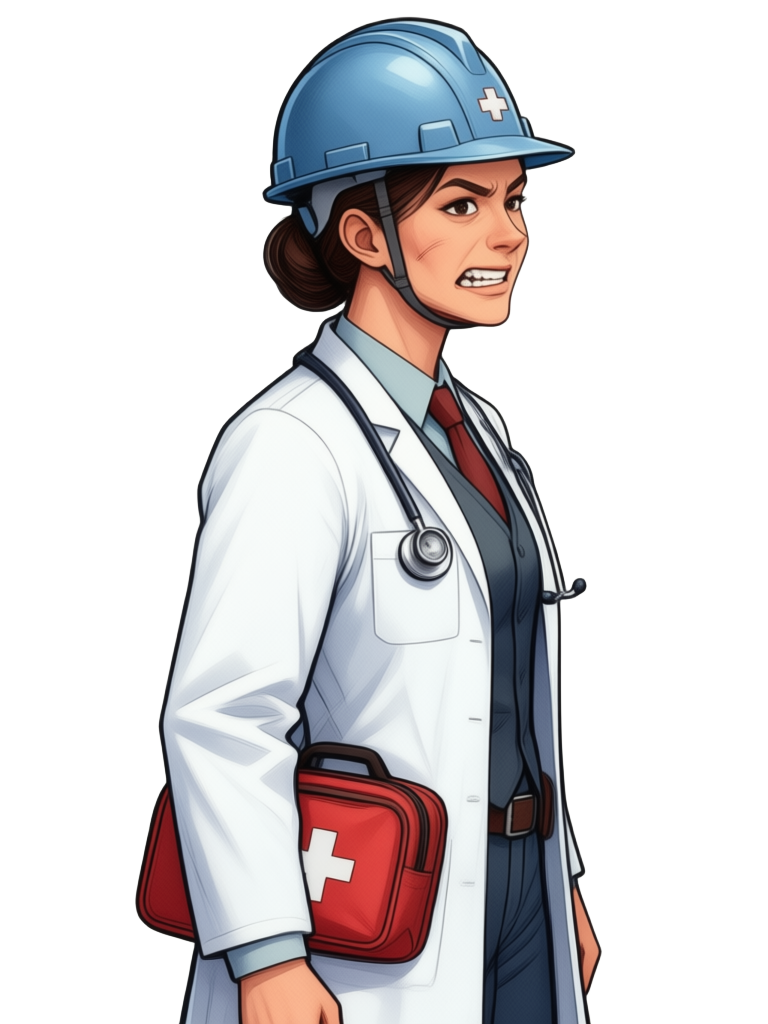
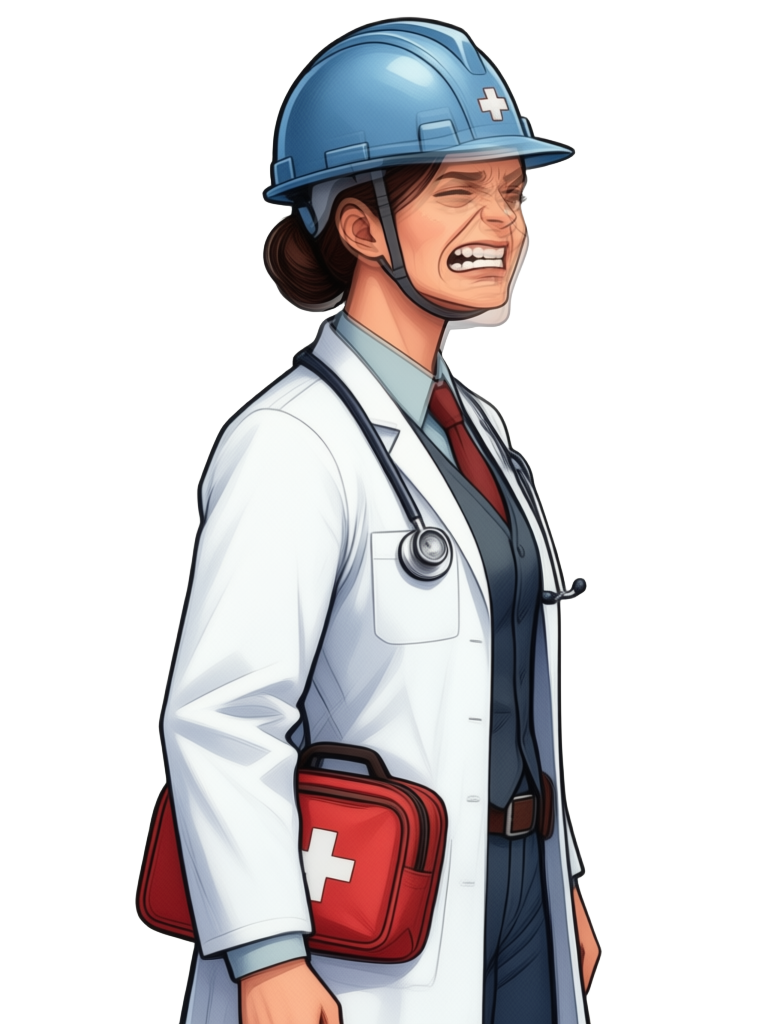
C2C 表情区分度：c02–c08 共 28 张脸部 inpaint 全量完成（NOBLANK 修 c07/c08 遮灰照抄 + 脸区变化量 QC），蒙太奇视觉验收 4 表情肉眼可辨、身份无漂移

Changed region(s): [[0.4062, 0.125, 0.6875, 0.4062]]

diff --git a/scripts/art/gen-c2c.py b/scripts/art/gen-c2c.py
@@ -16,7 +16,7 @@
 # 用法：
 #   python3 scripts/art/gen-c2c.py                  # 全量 c02–c08 ×4
 #   CHARS=c03 python3 scripts/art/gen-c2c.py        # 只跑指定角色
-#   SEED_SALT=1 换种子簇；DRY=1 只出图不覆盖 public/
+#   SEED_SALT=1 换种子簇；DRY=1 只出图不覆盖 public/；NOBLANK=1 条件图不遮灰（只改表情）
 # 断点：art-work/c2/express-c/<cid>_<expr>_fin.png 存在则跳过。
 
 import importlib.util
@@ -70,7 +70,16 @@ def face_mask(box, W, H):
     return np.array(m).astype(float) / 255.0
 
 
-def prompt_for(expr, cid):
+def prompt_for(expr, cid, noblank=False):
+    if noblank:
+        # NOBLANK：条件图保留原脸（不遮灰），让 Edit 模型看到脸只改表情。
+        # 遮灰模式下 c07/c08 模型看不到原脸，要么照抄原脸要么脸区画空（2026-11-02）。
+        return (
+            "把图中这个人的表情改成：%s。表情要夸张、清晰可辨，" % EXPRESSION[expr]
+            + "严格保持同一身份：脸型、肤色、五官比例、发型、帽子、衣服、道具、姿势、背景全部原样不变，只改脸部表情。"
+            + "脸必须和头、耳朵、脖子自然衔接，改动要平滑自然。"
+            + "厚涂赛璐璐风格，干净线稿，色块分明，与画面其余部分画风完全一致。"
+        )
     if cid in HELMET:
         hat = f"头顶戴着{HELMET[cid]}色安全帽，保持不变。"
     else:
@@ -130,6 +139,7 @@ def face_skin_ok(dec_rgb, m):
 def main():
     dry = os.environ.get("DRY") == "1"
     salt = int(os.environ.get("SEED_SALT", "0"))
+    noblank = os.environ.get("NOBLANK") == "1"
     _chars = os.environ.get("CHARS", "").strip()
     ids = [c.strip() for c in _chars.split(",") if c.strip()] if _chars else ["c0%d" % i for i in range(2, 9)]
     boxes = json.loads(BBX.read_text())
@@ -154,8 +164,11 @@ def main():
             comp = Image.new("RGB", orig.size, BG)
             comp.paste(orig, mask=orig.split()[3])
             m = face_mask(box, orig.width, orig.height)
-            blanked = (np.array(comp).astype(float) * (1 - m[:, :, None])
-                       + BLANK[None, None, :] * m[:, :, None])
+            if noblank:
+                blanked = np.array(comp)          # 不遮灰：条件图保留原脸
+            else:
+                blanked = (np.array(comp).astype(float) * (1 - m[:, :, None])
+                           + BLANK[None, None, :] * m[:, :, None])
             img_name = "f2c2c_%s_%s.png" % (cid, expr)
             (genc2.UPLOAD / img_name).unlink(missing_ok=True)
             Image.fromarray(blanked.clip(0, 255).astype(np.uint8), "RGB").save(genc2.UPLOAD / img_name)
@@ -169,7 +182,7 @@ def main():
                     if fp.exists():
                         fp.unlink()
                     seed = base_seed + attempt * 1000003
-                    found, dt = genc2.run(wf_inpaint(img_name, prompt_for(expr, cid), seed, prefix), [prefix])
+                    found, dt = genc2.run(wf_inpaint(img_name, prompt_for(expr, cid, noblank), seed, prefix), [prefix])
                     dec = Image.open(found[prefix]).convert("RGB")
                     skin = face_skin_ok(dec, m)
                     result = blend_face(orig, dec, m)
@@ -181,6 +194,16 @@ def main():
                     if skin < 0.10:
                         log("bad %s_%s [脸区肤色占比 %.3f < 0.10] try%d" % (cid, expr, skin, attempt + 1))
                         continue
+                    # 脸区实际变化量：模型照抄原脸（表情没生效）时 diff≈0（c07/c08 教训 2026-11-02）。
+                    # normal 是静止表情：NOBLANK 下"保持原脸"就是正确结果，跳过此项（skin+qc 仍把关）。
+                    if expr != 'normal':
+                        od = np.array(orig.convert("RGB")).astype(float)
+                        nd = np.array(result.convert("RGB")).astype(float)
+                        core = (m > 0.7).reshape(-1)
+                        delta = float(np.abs(nd[:, :, :3].reshape(-1, 3) - od.reshape(-1, 3))[core].mean())
+                        if delta < 8.0:
+                            log("bad %s_%s [脸区平均变化 %.1f < 8.0 表情未生效] try%d" % (cid, expr, delta, attempt + 1))
+                            continue
                     if dry:
                         result.save(WORK / (prefix + "_preview.png"))
                         log("dry %s_%s skin=%.2f (%.0fs)" % (cid, expr, skin, dt))

diff --git a/PROGRESS.md b/PROGRESS.md
@@ -13,6 +13,7 @@
 | P0 角色身份重设 + A1 帧 | 身份数据/故事字段 ✅ 9e28b04；8 张新立绘 ✅ 9e7f9f8/35678ea；21:10 复核 c04/c05/c07 配色+性别修复+3 新立绘 ✅ f17f99c；c01 林啸 85 帧精简版新管线重做（亮底+BiRefNet+每帧质检，抠图测试过）✅ 16bfa65；c02–c08 lite 批量 85 帧/人全部完成（15:21–17:19，c04/c06/c08 缺 8 帧 SEED_SALT 换簇补齐）✅ 1825661/190222f/5e760a7/fefcef8/8fd540e/085a280/36969fb | 见提交 |
 | A1 帧清理（INBOX 23:45） | ✅ 完成：c01 全帧重生 SALT 1/2/3（7520f02）85帧0问题帧0缺帧；c02–c08 cleanup-frames.py despill+scale/脚底对齐后 atlas 重打包（f47d335），A1 单测绿 | 7520f02/f47d335 |
 | C2 过场美术（INBOX 20:30） | ✅ 完成：32 场景图 + 32 表情立绘全部就位（img2img 第二批重绘 + 救援裁切 + c01 底图切换修 c01_hurt 偏色），C2 3/3 绿，c01–c08 montage 视觉复验全过 | 完成 |
+| C2 表情区分度（INBOX 07:25/07:30） | ✅ 完成：28 张脸部 bbox（VLM 27B 定位 + 4 张诊断补全）；gen-c2c 脸部 inpaint 管线（遮灰→Edit-2511 denoise 1.0→羽化 mask 混回，mask 外像素逐位还原）71f6994；c07/c08 遮灰模式模型看不到原脸照抄/画空 → 加 NOBLANK（条件图保留原脸只改表情）+ 脸区变化量 QC（<8.0 判表情未生效）；全量 28 张一次过 QC（身份色相签名 + 脸区肤色占比 ≥0.10），c2c-review 蒙太奇视觉验收 7 角色 4 表情肉眼可辨、身份无漂移、无灰块/白线/崩坏 | 见提交 |
 
 ## 日志
 
